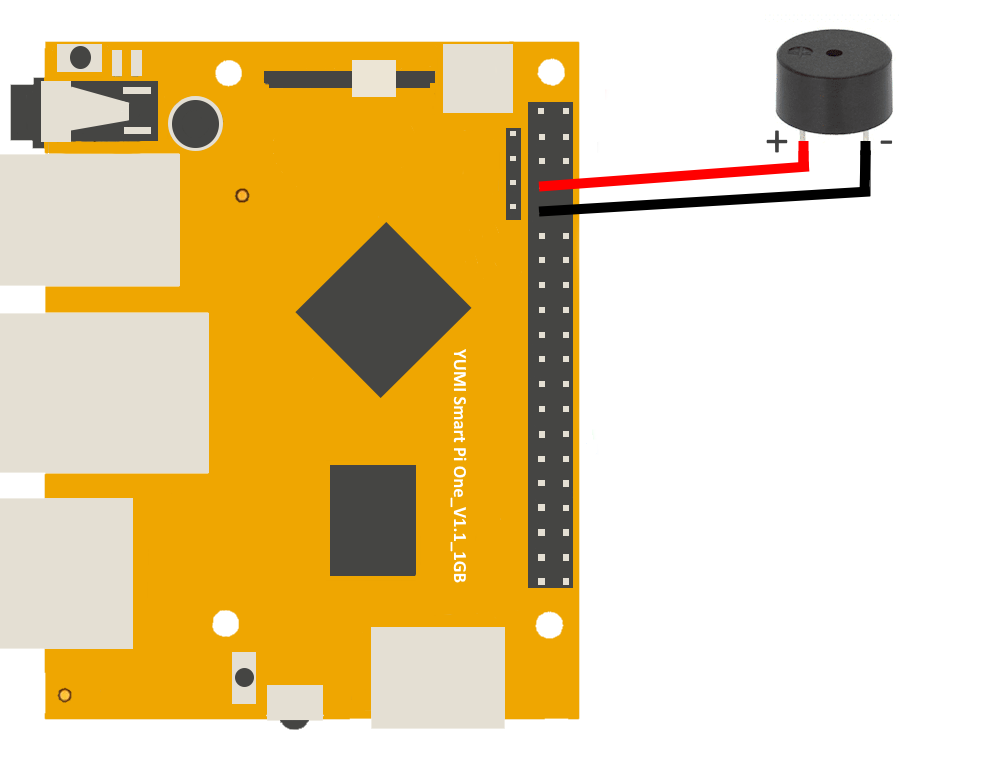
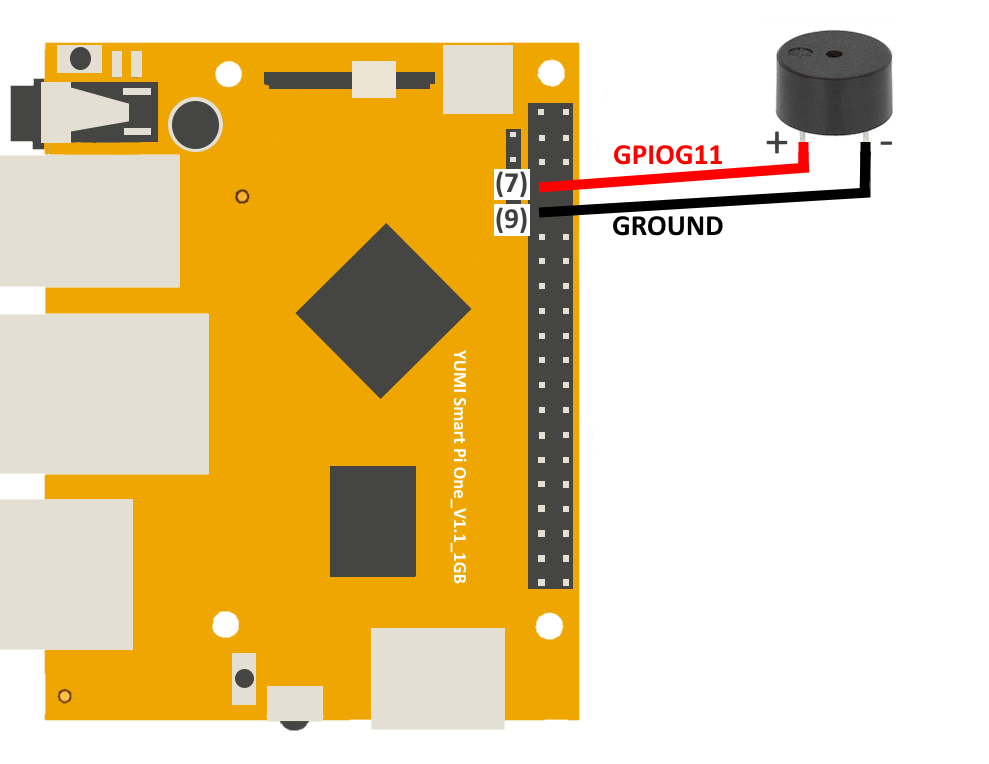
Update page SmartPi_Buzzer_Control.md

diff --git a/docs/SmartPI/Sensors&Modules/SmartPi_Buzzer_Control.md b/docs/SmartPI/Sensors&Modules/SmartPi_Buzzer_Control.md
@@ -11,6 +11,36 @@ This page describes how to connect and use a buzzer with the Smart Pi One, inclu
 - Connecting wires
 - Breadboard (optional for easier connections)
 
+## Prerequisites: Configuration of smartpi-gpio
+
+To install **SmartPi-GPIO** on your Smart Pi One, follow these steps:
+
+1. **Update system**:
+   ```bash
+   sudo apt update 
+   sudo apt-get install -y python3-dev python3-pip libjpeg-dev zlib1g-dev libtiff-dev
+   sudo mv /usr/lib/python3.11/EXTERNALLY-MANAGED /usr/lib/python3.11/EXTERNALLY-MANAGED.old
+   ```
+
+2. **Clone the repository**:
+   ```bash
+   git clone https://github.com/ADNroboticsfr/smartpi-gpio.git
+   cd smartpi-gpio
+   ```
+
+3. **Install the library**:
+   ```bash
+   sudo python3 setup.py sdist bdist_wheel
+   sudo pip3 install dist/smartpi_gpio-1.0.0-py3-none-any.whl
+   ```
+
+4. **Activate GPIO interfaces**:
+   ```bash
+   sudo activate_interfaces.sh
+   ``` 
+
+   ![Smart Pi One - Button](../../../img/SmartPi/Sensors&Modules/SmartPi_Button_Control/SmartPi_Button_Control_3.png)
+
 ## Wiring Diagram
 
 Below is a sample wiring diagram for connecting a buzzer to the Smart Pi One:
@@ -58,6 +88,8 @@ To install **SmartPi-GPIO** on your Smart Pi One, follow these steps:
    sudo activate_interfaces.sh
     ```
 
+## Using Python
+
 ## Creating the Python Script
 
 1. Open a terminal on your Smart Pi One.
@@ -104,61 +136,5 @@ To install **SmartPi-GPIO** on your Smart Pi One, follow these steps:
 To run the Python script, use the following command:
 
 ```bash
-python3 buzzer_control.py
-```
-
-## Using a C Program
-
-## Creating the C Program
-
-1. Open a terminal on your Smart Pi One.
-2. Create a new C file using `nano`:
-
-   ```bash
-   nano buzzer_control.c
-   ```
-
-3. Copy and paste the following C code into the file:
-
-   ```c
-   #include <stdio.h>
-   #include <stdlib.h>
-   #include <unistd.h>
-   #include "smartpi_gpio.h"
-
-   int main() {
-       // Initialize GPIO
-       smartpi_gpio_init();
-       int BUZZER_PIN = 7;
-
-       // Set GPIO7 as output for the buzzer
-       smartpi_gpio_set_mode(BUZZER_PIN, OUTPUT);
-
-       while (1) {
-           // Turn the buzzer on
-           smartpi_gpio_write(BUZZER_PIN, HIGH);
-           printf("Buzzer ON\n");
-           sleep(1);  // Buzzer stays on for 1 second
-           
-           // Turn the buzzer off
-           smartpi_gpio_write(BUZZER_PIN, LOW);
-           printf("Buzzer OFF\n");
-           sleep(1);  // Buzzer stays off for 1 second
-       }
-
-       // Release GPIO resources (this will never be reached)
-       smartpi_gpio_cleanup();
-       return 0;
-   }
-   ```
-
-4. Save the file by pressing `CTRL + X`, then `Y`, and finally `Enter`.
-
-## Compiling and Running the C Program
-
-To compile and run the C program, use the following commands:
-
-```bash
-gcc -o buzzer_control buzzer_control.c -I/path/to/smartpi_gpio/include -L/path/to/smartpi_gpio/lib -lsmartpi_gpio
-./buzzer_control
+sudo python3 buzzer_control.py
 ```
